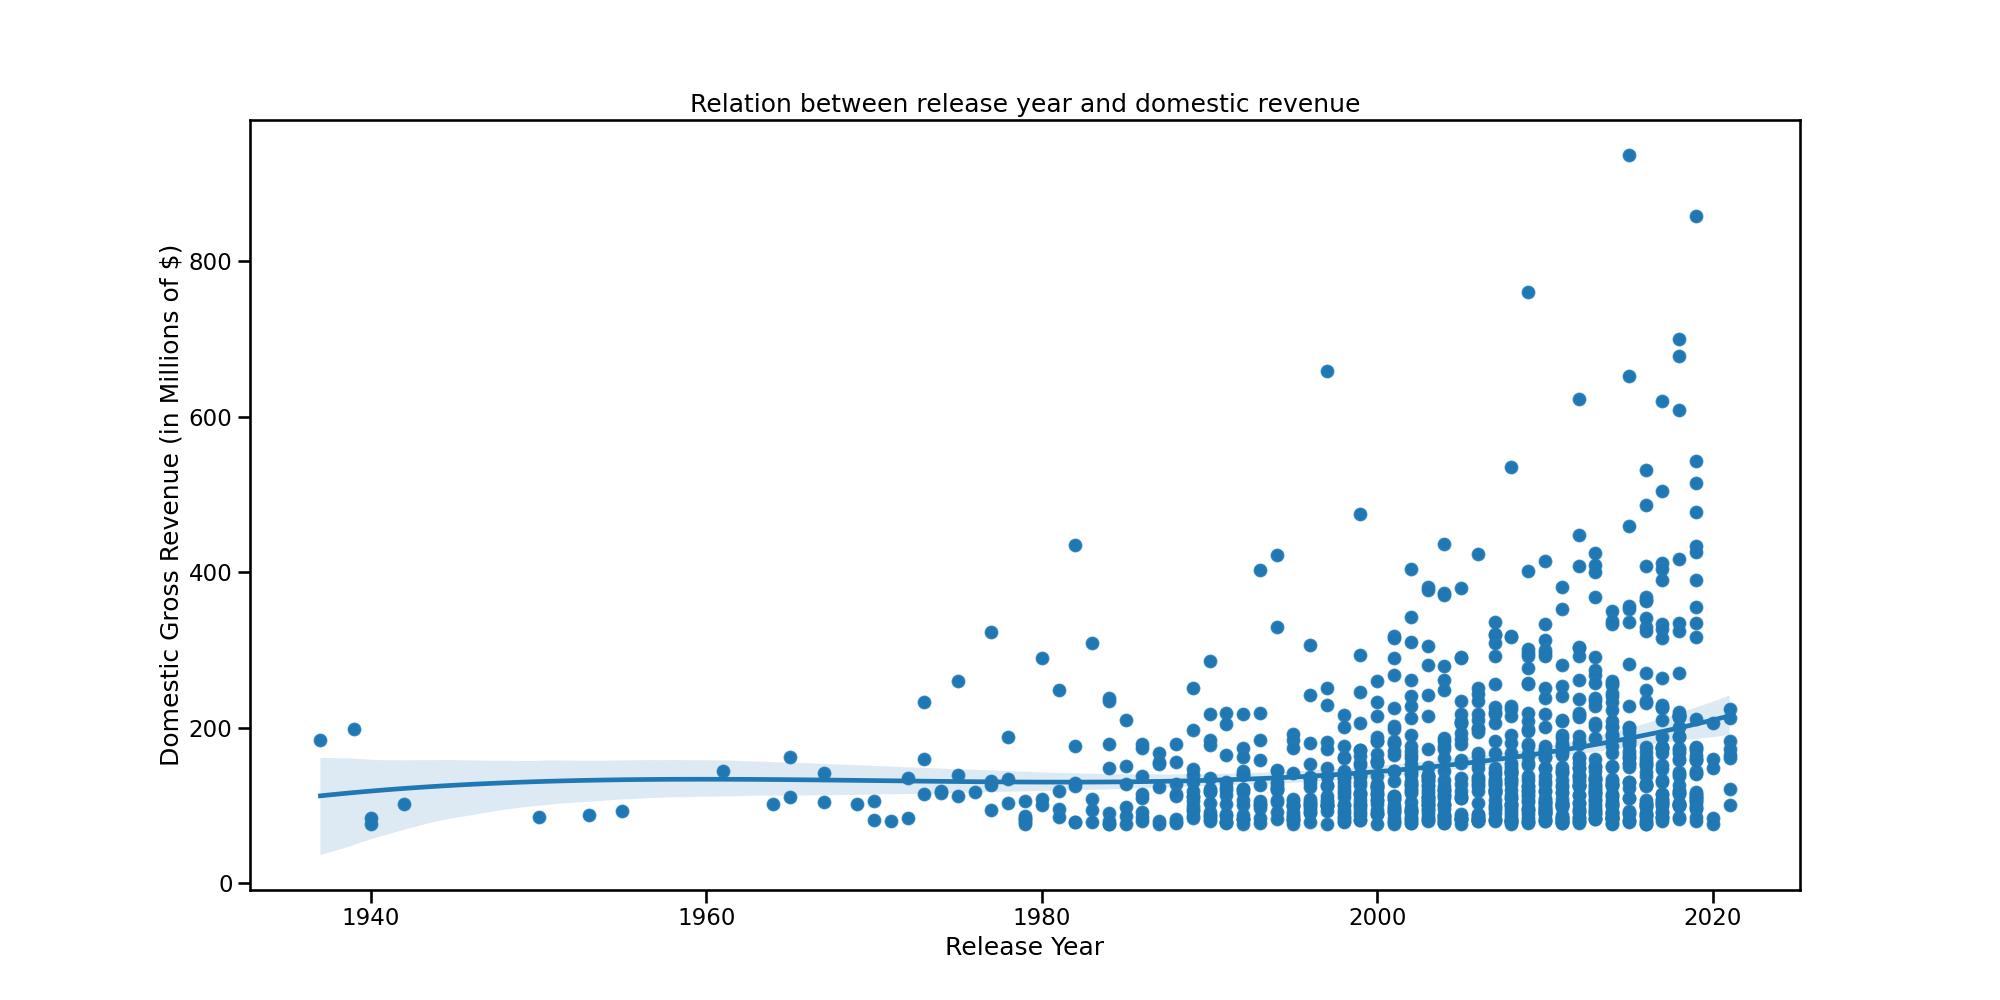
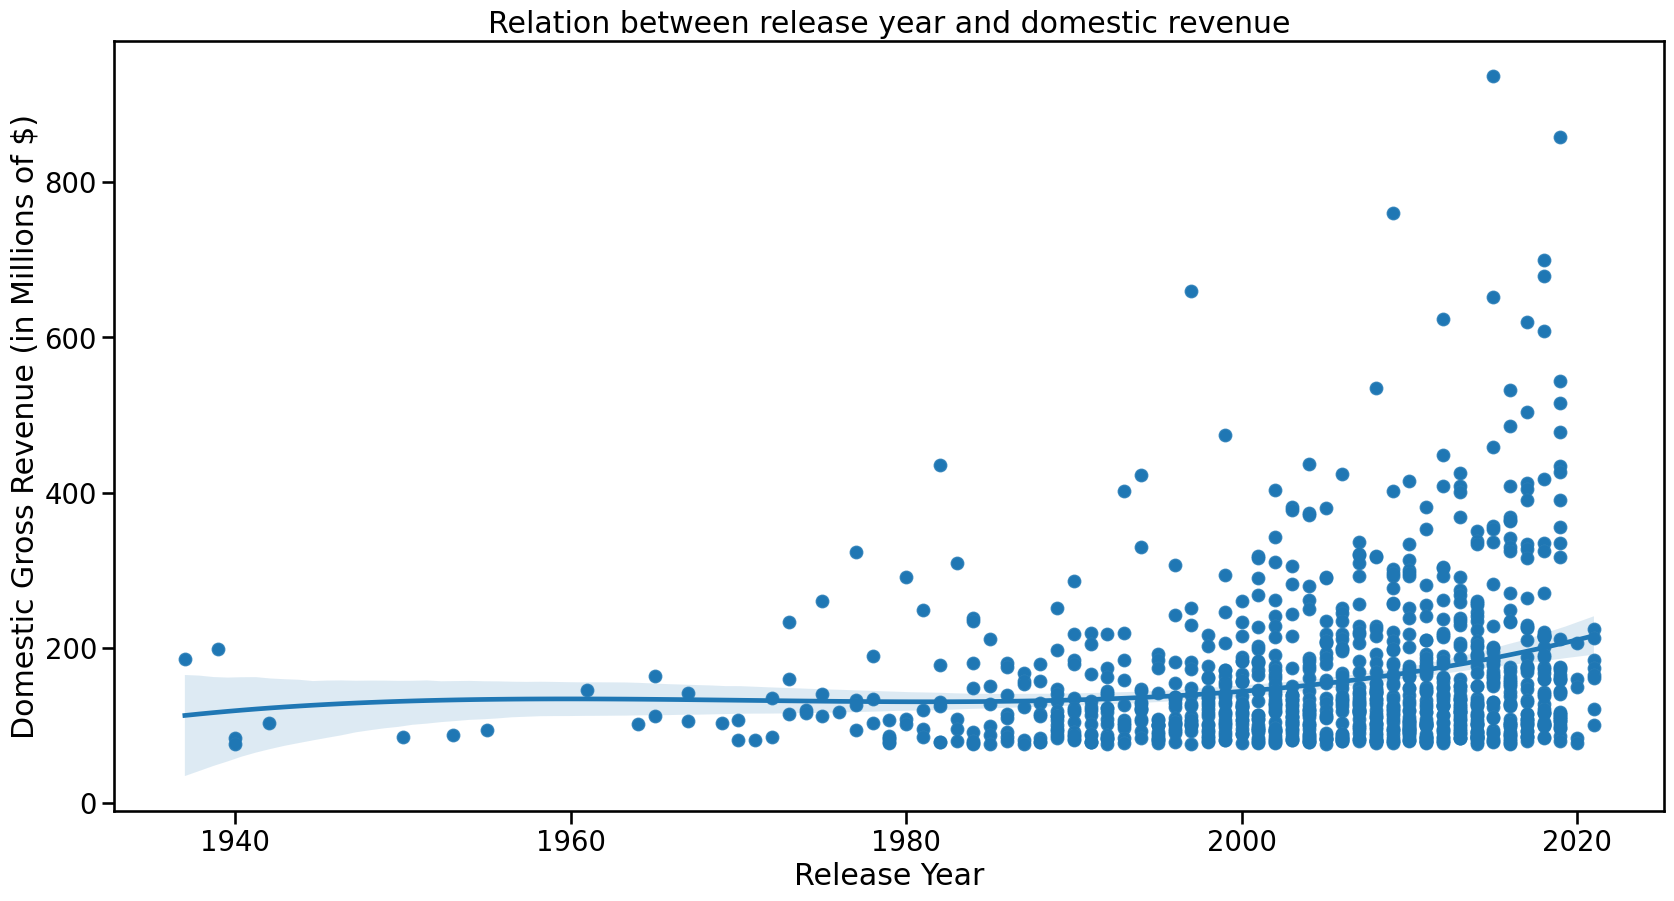
Should work and be clear now

diff --git a/code/graphs.py b/code/graphs.py
@@ -4,6 +4,7 @@ import os
 import matplotlib.pyplot as plt
 import seaborn as sns
 
+
 # Constants
 IN_FILE_PATH = os.path.join("data", "clean", "imdb_clean.csv")
 OUT_DIR = "figures"
@@ -13,12 +14,12 @@ OUT_DIR = "figures"
 def save_plot(figure_obj, output_directory, output_file_name):
     """Function takes in a figure, the output directory and file name and saves the figure"""
     path = os.path.join(output_directory, output_file_name)
-    figure_obj.savefig(path)
+    figure_obj.savefig(path, bbox_inches='tight')
 
 
 if __name__ == "__main__":
-    os.makedirs(OUT_DIR, exist_ok=True)
-    sns.set_context("talk") #ADDED LINE
+    os.makedirs(OUT_DIR, exist_ok=True) 
+    sns.set_context("talk", font_scale=1.2) #ADDED LINE
     df = pd.read_csv(IN_FILE_PATH).sort_values("GrossRevenue", ascending=False)[:1000]
     df2 = pd.read_csv(IN_FILE_PATH)
     counts_by_year_data = df2.groupby(df2["ReleaseYear"]//10*10)["Title"].count().reset_index()
@@ -33,7 +34,7 @@ if __name__ == "__main__":
     plot1.set(xlabel="Title", ylabel="Domestic Gross Revenue (in Millions of $)")
     save_plot(plot1.figure, OUT_DIR, "Top_50_Grossing.png")
     plt.close()
-
+    
     # Relation between release year and domestic revenue plot 
     plot2 = plt.figure(figsize=(20, 10))
     plot2 = sns.scatterplot(data=df, x="ReleaseYear", y="GrossRevenue")
@@ -84,7 +85,7 @@ if __name__ == "__main__":
     )
     
     # Plot of percentage of Top 1000 US Grossing Movies by Genre
-    plot6 = plt.figure(figsize=(18,6))
+    plot6 = plt.figure(figsize=(20,8))
     plot6 = sns.barplot(data=genre_props,
             x = "Proportion",
             y = "Genre",
@@ -111,13 +112,13 @@ if __name__ == "__main__":
          title="Relation between release year and domestic revenue with Adventure movies highlighted")
     save_plot(plot8.figure, OUT_DIR, "Release_year_by_grossing_adventure.png")
     plt.close()
-    
+
     # Plot of relation between genres and average domestic revenue
     plot9 = (
     df.groupby("Genres")["GrossRevenue"]
     .mean()
     .sort_values(ascending=False)[:50]
-    .plot.bar(figsize=(20, 10))
+    .plot.bar(figsize=(25, 10))
     )
     plot9.set(xlabel="Genre Combination", ylabel="Average Domestic Gross Revenue (in Millions of $)",
          title="Relation between genres and average domestic revenue")
